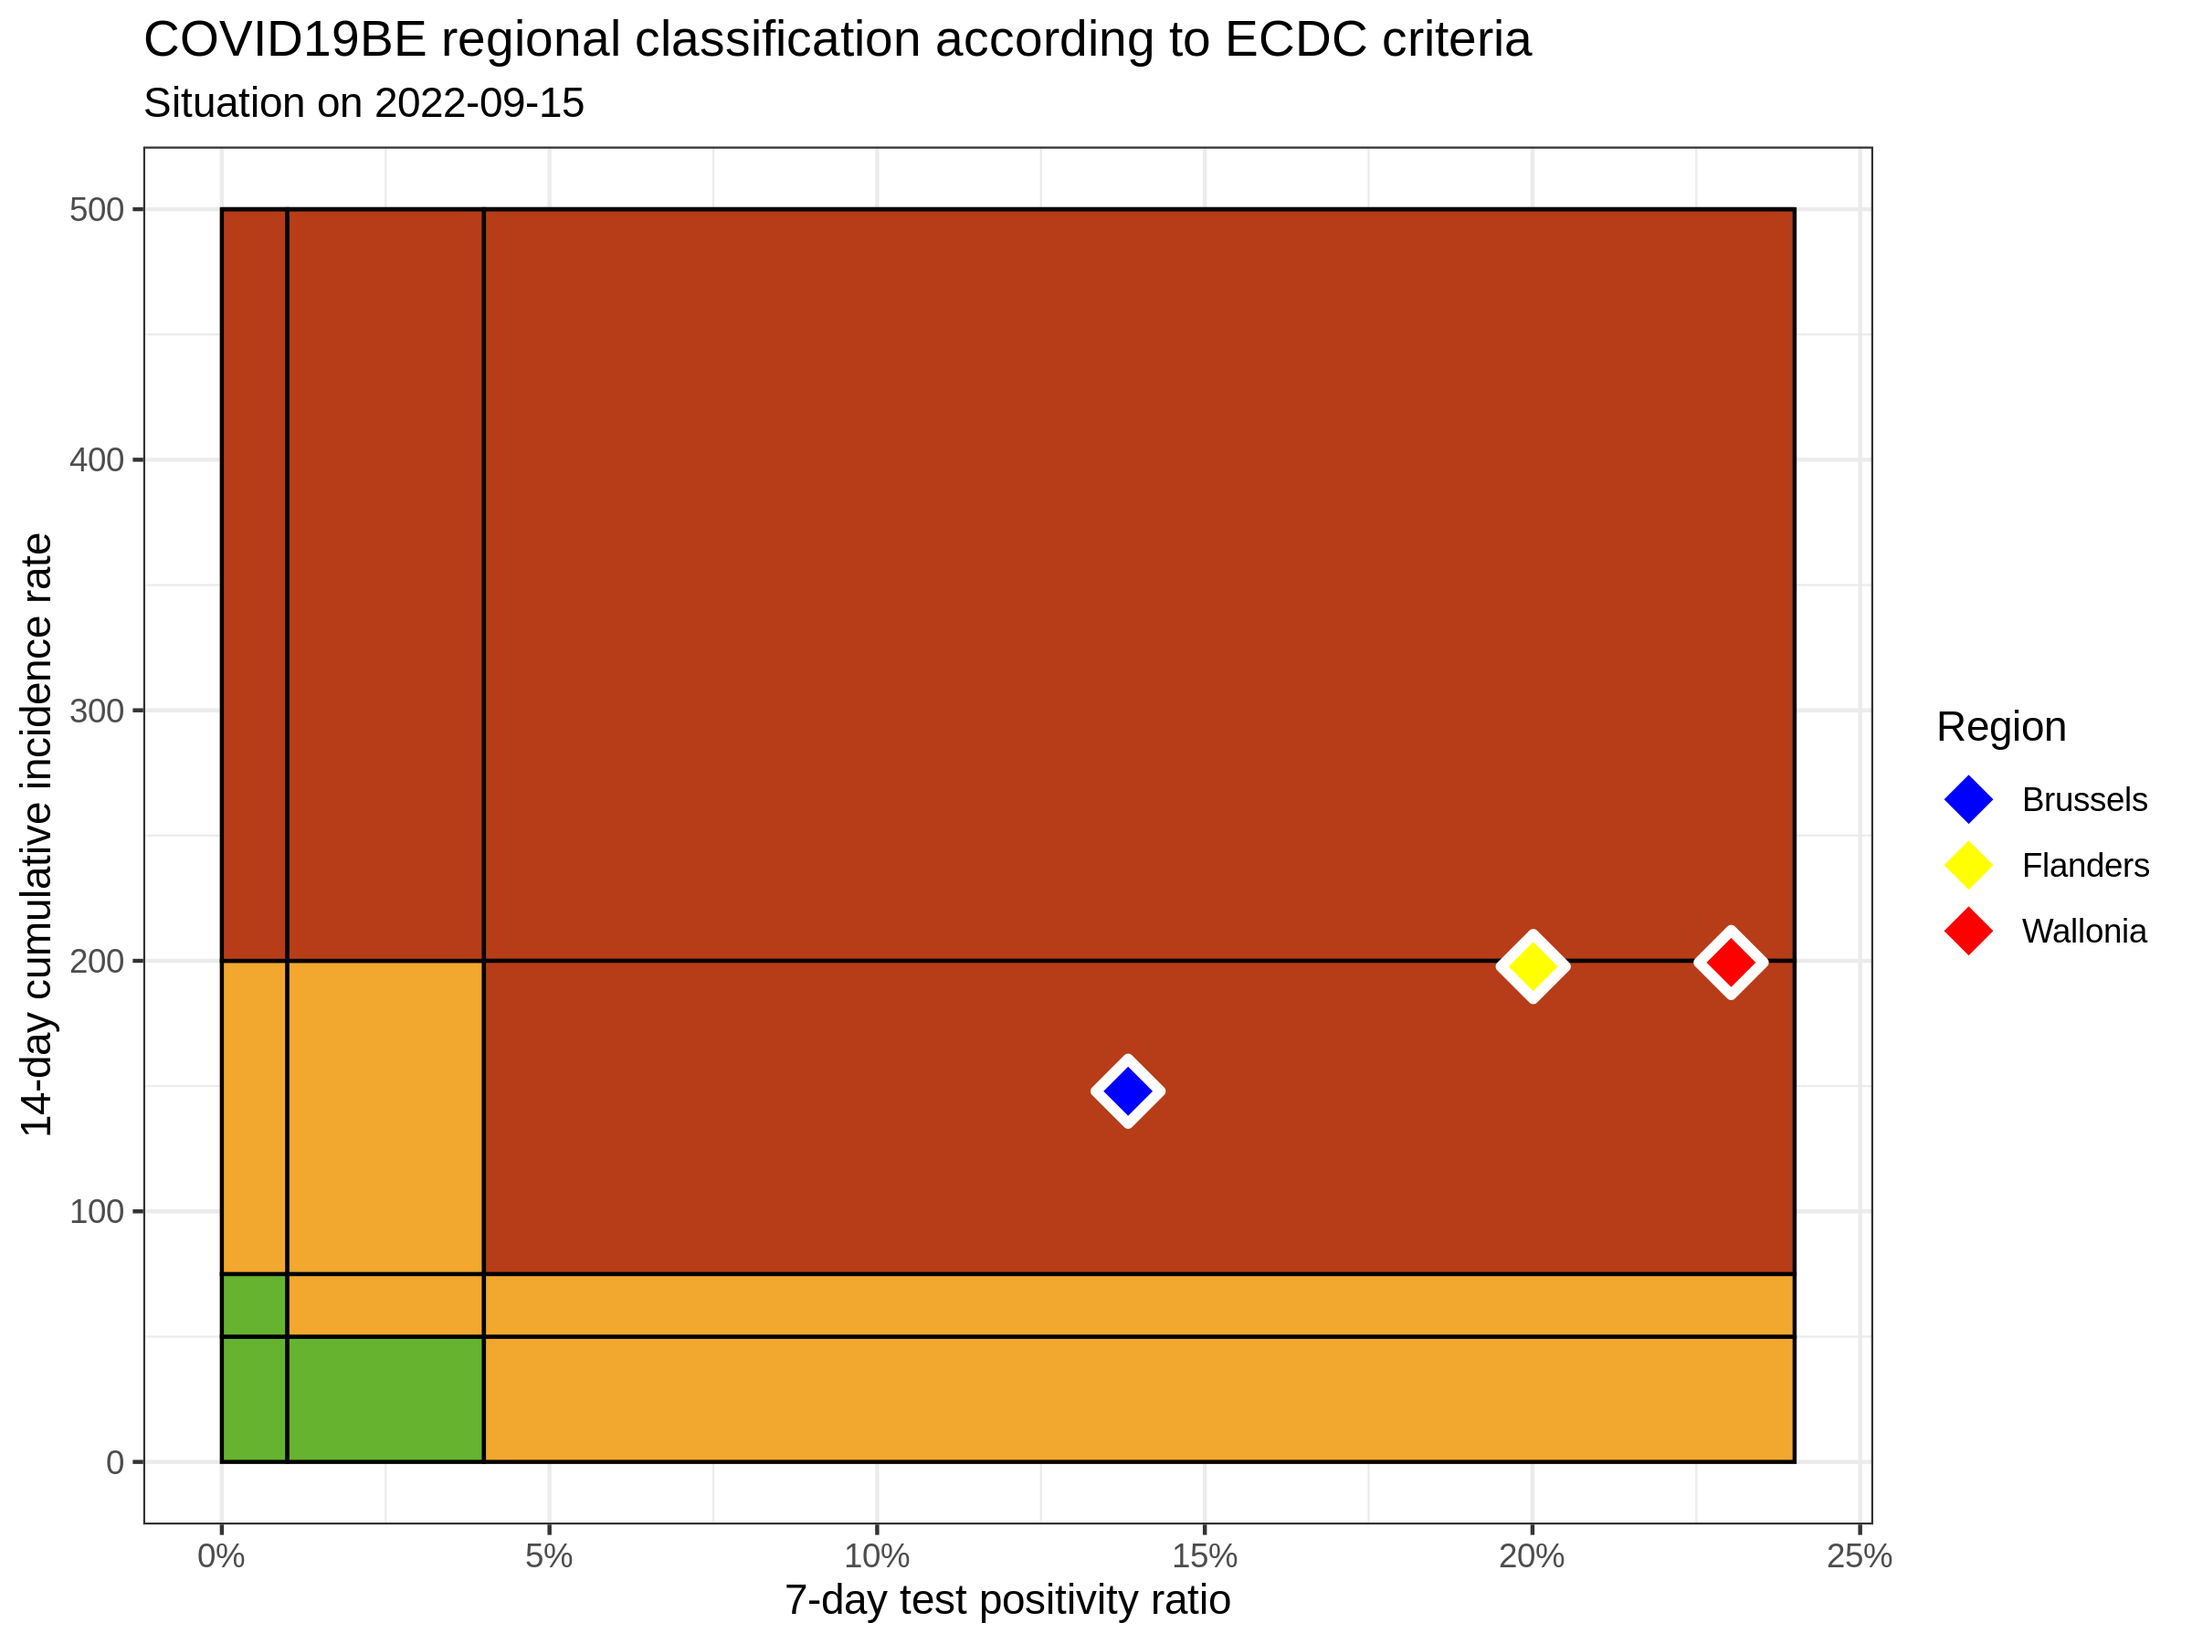
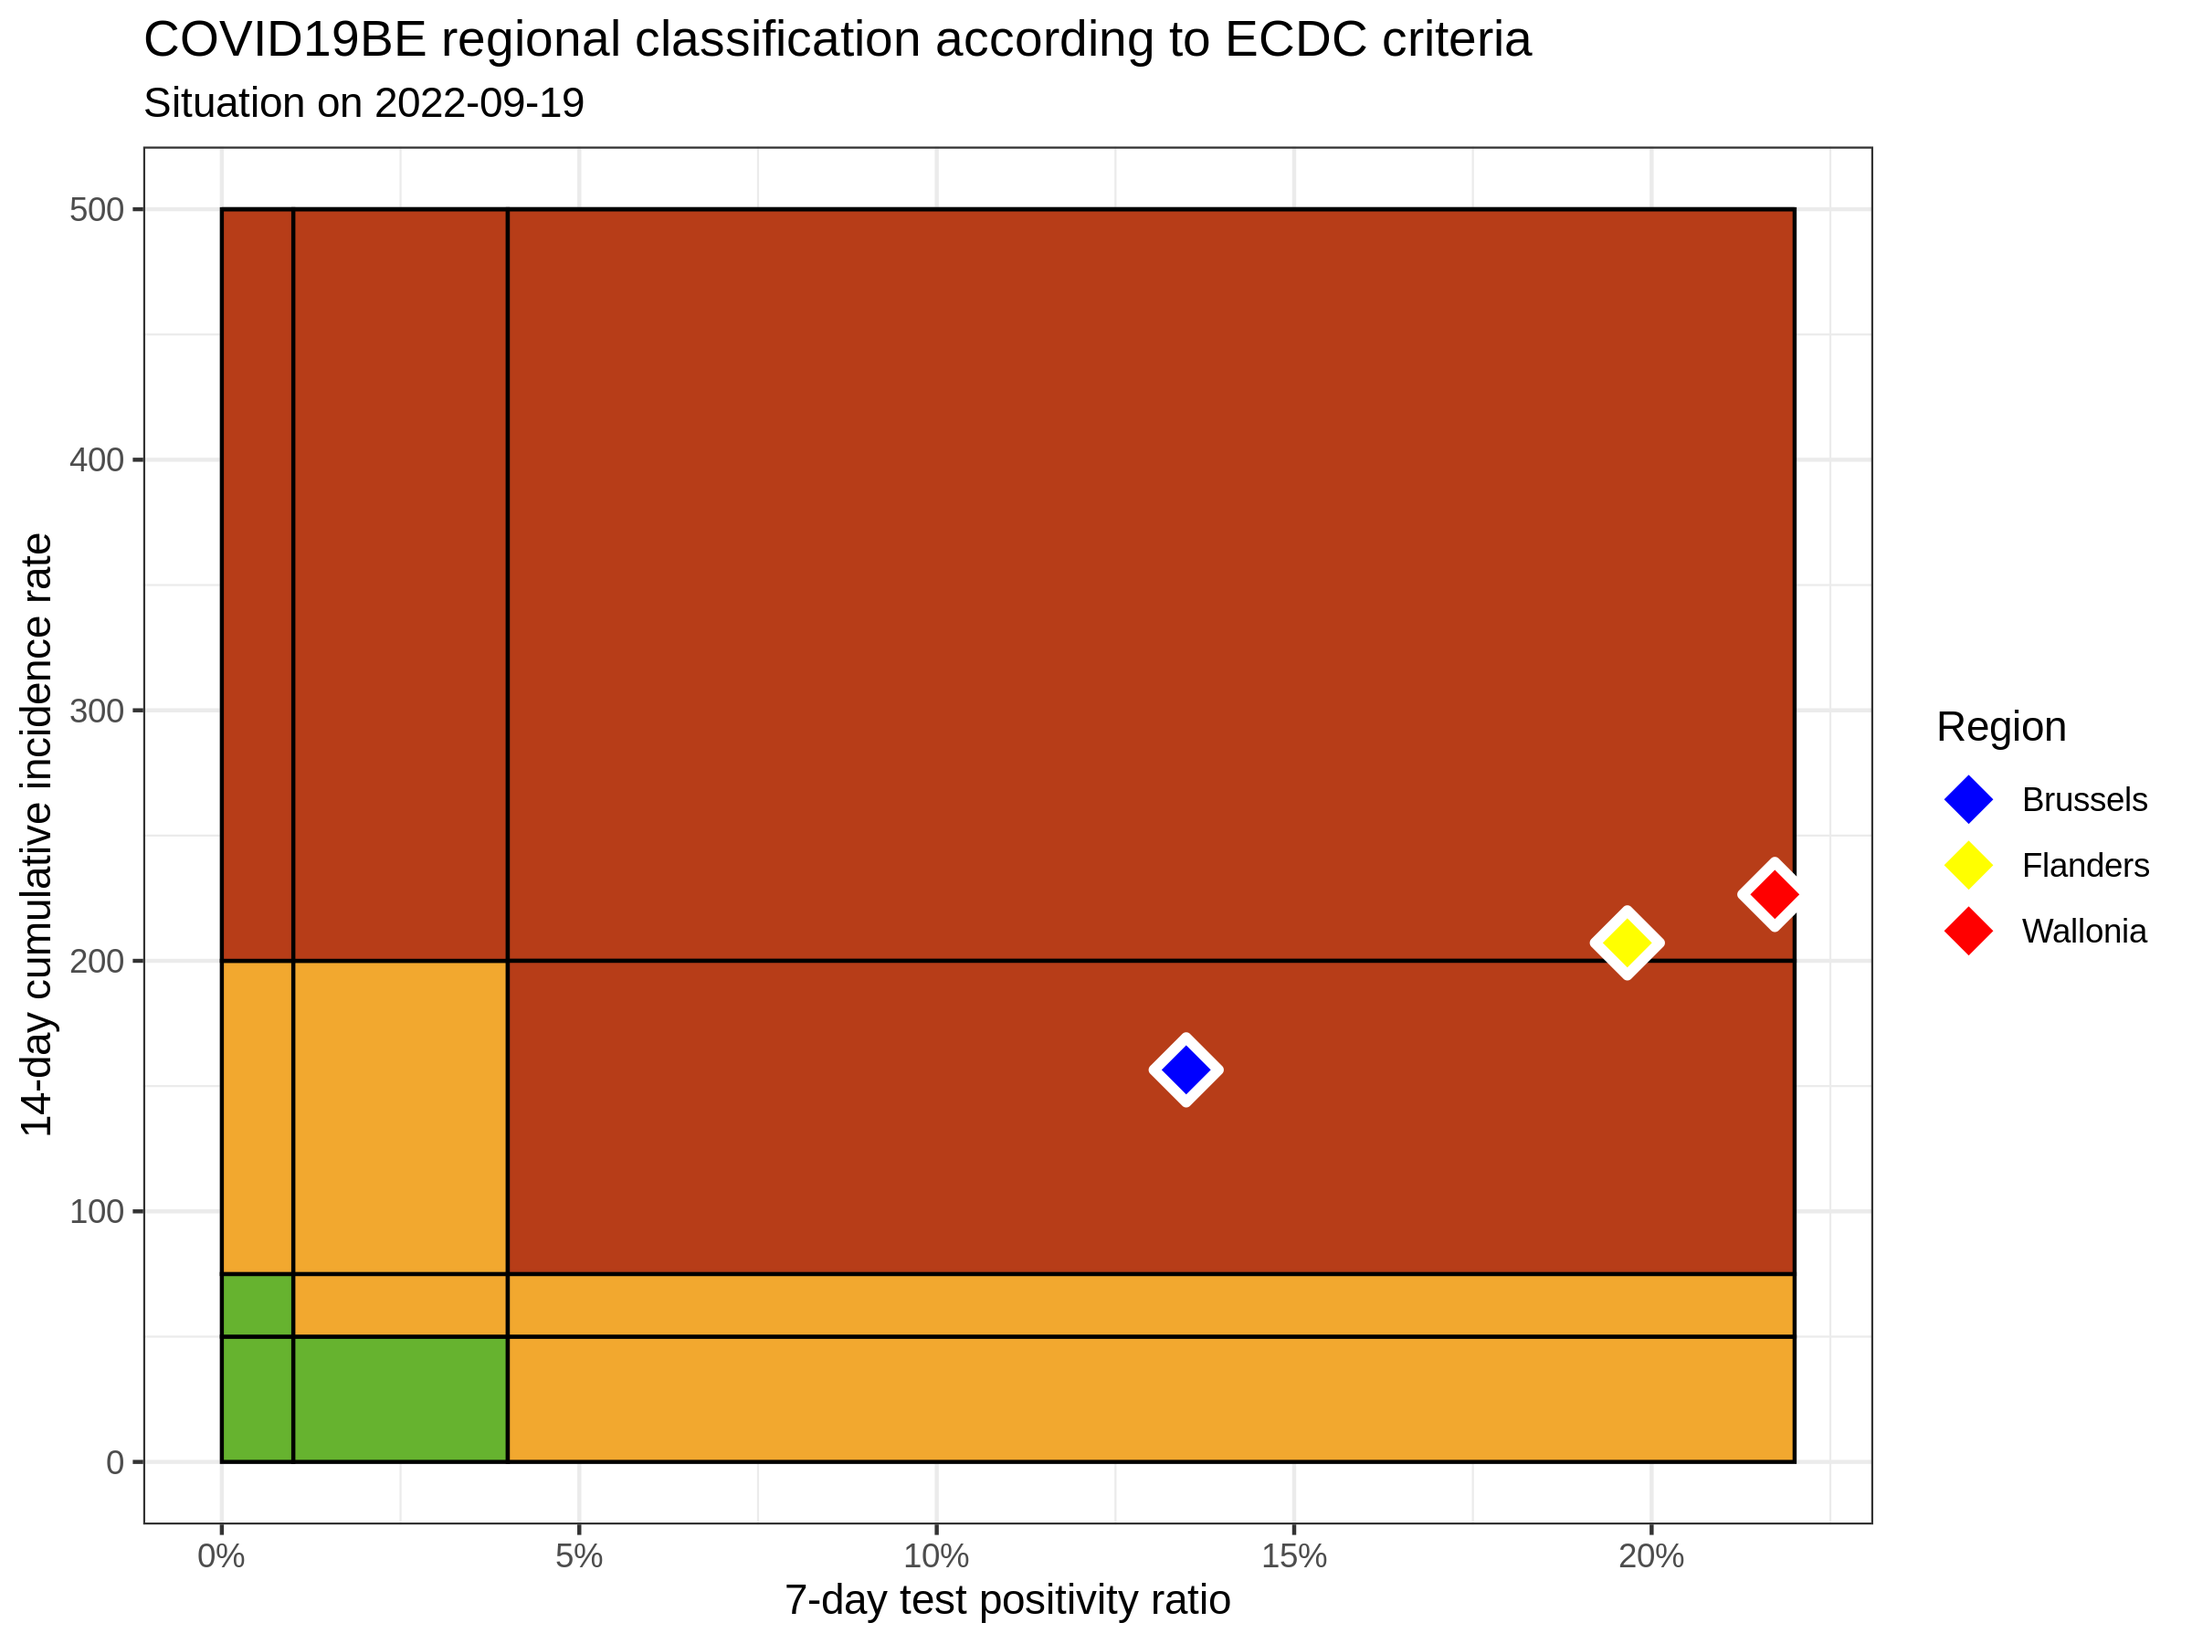
update situation

diff --git a/ecdc-trend/README.md b/ecdc-trend/README.md
@@ -9,11 +9,11 @@
 
 ![](COVID9BE-ecdc-trend.png)
 
-|          | INC14 | INC7 |  TST7 | TST\_POS7 | REGION   |     POP | INC14\_RT |       PR7 |          GR |
-| :------- | ----: | ---: | ----: | --------: | :------- | ------: | --------: | --------: | ----------: |
-| Brussels |  1805 |  933 |  7325 |      1013 | Brussels | 1219970 |  147.9545 | 0.1382935 |   0.0699541 |
-| Flanders | 13155 | 6575 | 34760 |      6956 | Flanders | 6653062 |  197.7285 | 0.2001151 | \-0.0007599 |
-| Wallonia |  7272 | 4007 | 18366 |      4230 | Wallonia | 3648206 |  199.3308 | 0.2303169 |   0.2272588 |
+|          | INC14 | INC7 |  TST7 | TST\_POS7 | REGION   |     POP | INC14\_RT |       PR7 |        GR |
+| :------- | ----: | ---: | ----: | --------: | :------- | ------: | --------: | --------: | --------: |
+| Brussels |  1909 |  978 |  7769 |      1048 | Brussels | 1219970 |  156.4793 | 0.1348951 | 0.0504834 |
+| Flanders | 13783 | 7357 | 39384 |      7743 | Flanders | 6653062 |  207.1678 | 0.1966027 | 0.1448802 |
+| Wallonia |  8263 | 4477 | 21594 |      4691 | Wallonia | 3648206 |  226.4949 | 0.2172363 | 0.1825145 |
 
 ### Read more
 
